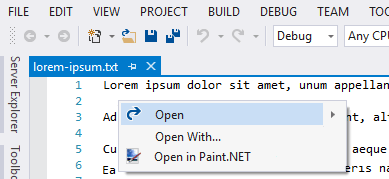
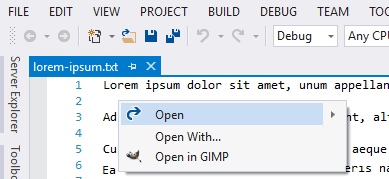
readmes

Changed region(s): [[0.3085, 0.8101, 0.6478, 0.9218]]

diff --git a/src/Gimp/OpenInApp/source.extension.cs b/src/Gimp/OpenInApp/source.extension.cs
@@ -11,7 +11,7 @@ namespace OpenInApp
         public const string Name = "Open in GIMP - GNU Image Manipulation Program";
         public const string Description = @"Open multiple files simultaneously in GIMP (GNU Image Manipulation Program) directly from Solution Explorer or Code Editor window.";
         public const string Language = "en-US";
-        public const string Version = "1.2.17";
+        public const string Version = "1.2.18";
         public const string Author = "GregTrevellick";
         public const string Tags = "open in, gimp, GNU Image Manipulation Program";
     }

diff --git a/src/AndroidStudio/OpenInApp/source.extension.cs b/src/AndroidStudio/OpenInApp/source.extension.cs
@@ -11,7 +11,7 @@ namespace OpenInApp
         public const string Name = "Open in Android Studio";
         public const string Description = @"Open multiple files simultaneously in Android Studio directly from Solution Explorer or Code Editor window.";
         public const string Language = "en-US";
-        public const string Version = "1.2.17";
+        public const string Version = "1.2.18";
         public const string Author = "GregTrevellick";
         public const string Tags = "open; open in; Android Studio; Android; Studio;";
     }

diff --git a/src/MarkdownMonster/OpenInApp/source.extension.cs b/src/MarkdownMonster/OpenInApp/source.extension.cs
@@ -11,7 +11,7 @@ namespace OpenInApp
         public const string Name = "Open in Markdown Monster";
         public const string Description = @"Open multiple files simultaneously in Markdown Monster directly from Solution Explorer or Code Editor window.";
         public const string Language = "en-US";
-        public const string Version = "1.2.17";
+        public const string Version = "1.2.18";
         public const string Author = "GregTrevellick";
         public const string Tags = "open, open in, MarkdownMonster";
     }

diff --git a/src/PaintDotNet/OpenInApp/source.extension.cs b/src/PaintDotNet/OpenInApp/source.extension.cs
@@ -11,7 +11,7 @@ namespace OpenInApp
         public const string Name = "Open in Paint.NET";
         public const string Description = @"Open multiple files simultaneously in Paint.NET directly from Solution Explorer or Code Editor window.";
         public const string Language = "en-US";
-        public const string Version = "1.2.17";
+        public const string Version = "1.2.18";
         public const string Author = "GregTrevellick";
         public const string Tags = "open, open in, Paint.NET, Paint, PaintDotNet";
     }

diff --git a/src/MarkdownMonster/OpenInApp/VisualStudioMarketPlaceAssets/README.md b/src/MarkdownMonster/OpenInApp/VisualStudioMarketPlaceAssets/README.md
@@ -2,8 +2,7 @@
 
 Open multiple files simultaneously in [MarkdownMonster][ThirdPartyAppHomePage] directly from [Visual Studio's][VisualStudioURL] Code Editor window and / or Solution Explorer.
 
-
- - *If you like this ***FREE*** tool please take a few seconds out to give a star rating below and/or [help others][CharityWareURL]*.
+ - *If you like this ***FREE*** tool please take a few seconds out to give a star rating below*.
 
 Similar "Open In" VS extensions can be found [here](https://marketplace.visualstudio.com/search?term=trevellick&target=VS&sortBy=Relevance).
 
@@ -23,29 +22,6 @@ Similar "Open In" VS extensions can be found [here](https://marketplace.visualst
  
   ![](ReadMeScreenShot_ItemNode.png)
 
-- From solution explorer at folder level
- 
-  ![](ReadMeScreenShot_FolderNode.png)
-
-- From solution explorer at project level
-
-  ![](ReadMeScreenShot_ProjNode.png)
-
-<!--
-- Warning if attempting to open one or more file types whose extension is not typically associated with [MarkdownMonster][ThirdPartyAppHomePage]. The list of typical file extensions is configurable in Tools > Options.
-
-  ![](../Generic_ReadMeScreenShot_WarningNonTypical.png)
-
-- Option to supress the warning message if attempting to open a file whose extension is not typically associated with [MarkdownMonster][ThirdPartyAppHomePage].
-
-  ![](../Generic_ReadMeScreenShot_OptionsGeneral.png)
-
-
-- Warning if attempting to open a large quantity of artefacts. The quantity is configurable in Tools > Options.
-
-  ![](../Generic_ReadMeScreenShot_WarningLargeQuantity.png)
--->
-
 ## Use Cases
 
 The [Visual Studio IDE][VisualStudioURL] has an outstanding and feature-rich editor for a wide range of file types, even in the free "Community" editions, which can be overridden to open a third-party application.
@@ -62,8 +38,5 @@ That said, there may be times when you wish to edit a file in an alternative edi
 
 - You are more familiar with a certain editor's features, or simply have a favourite editor.
 
-
-
 [ThirdPartyAppOfficialLogo]: ThirdPartyLogo.png
 [VisualStudioURL]: https://www.visualstudio.com/
-[CharityWareURL]: https://github.com/GregTrevellick/MiscellaneousArtefacts/wiki/Charity-Ware

diff --git a/src/AndroidStudio/OpenInApp/VisualStudioMarketPlaceAssets/README.md b/src/AndroidStudio/OpenInApp/VisualStudioMarketPlaceAssets/README.md
@@ -2,8 +2,7 @@
 
 Open multiple files simultaneously in [AndroidStudio][ThirdPartyAppHomePage] directly from [Visual Studio's][VisualStudioURL] Code Editor window and / or Solution Explorer.
 
-
- - *If you like this ***FREE*** tool please take a few seconds out to give a star rating below and/or [help others][CharityWareURL]*.
+ - *If you like this ***FREE*** tool please take a few seconds out to give a star rating below*.
 
 Similar "Open In" VS extensions can be found [here](https://marketplace.visualstudio.com/search?term=trevellick&target=VS&sortBy=Relevance).
 
@@ -23,29 +22,6 @@ Similar "Open In" VS extensions can be found [here](https://marketplace.visualst
  
   ![](ReadMeScreenShot_ItemNode.png)
 
-- From solution explorer at folder level
- 
-  ![](ReadMeScreenShot_FolderNode.png)
-
-- From solution explorer at project level
-
-  ![](ReadMeScreenShot_ProjNode.png)
-
-<!--
-- Warning if attempting to open one or more file types whose extension is not typically associated with [AndroidStudio][ThirdPartyAppHomePage]. The list of typical file extensions is configurable in Tools > Options.
-
-  ![](../Generic_ReadMeScreenShot_WarningNonTypical.png)
-
-- Option to supress the warning message if attempting to open a file whose extension is not typically associated with [AndroidStudio][ThirdPartyAppHomePage].
-
-  ![](../Generic_ReadMeScreenShot_OptionsGeneral.png)
-
-
-- Warning if attempting to open a large quantity of artefacts. The quantity is configurable in Tools > Options.
-
-  ![](../Generic_ReadMeScreenShot_WarningLargeQuantity.png)
--->
-
 ## Use Cases
 
 The [Visual Studio IDE][VisualStudioURL] has an outstanding and feature-rich editor for a wide range of file types, even in the free "Community" editions, which can be overridden to open a third-party application.
@@ -62,8 +38,5 @@ That said, there may be times when you wish to edit a file in an alternative edi
 
 - You are more familiar with a certain editor's features, or simply have a favourite editor.
 
-
-
 [ThirdPartyAppOfficialLogo]: ThirdPartyLogo.png
 [VisualStudioURL]: https://www.visualstudio.com/
-[CharityWareURL]: https://github.com/GregTrevellick/MiscellaneousArtefacts/wiki/Charity-Ware

diff --git a/src/PaintDotNet/OpenInApp/VisualStudioMarketPlaceAssets/README.md b/src/PaintDotNet/OpenInApp/VisualStudioMarketPlaceAssets/README.md
@@ -2,8 +2,7 @@
 
 Open multiple files simultaneously in [paint.net][ThirdPartyAppHomePage] directly from [Visual Studio's][VisualStudioURL] Code Editor window and / or Solution Explorer.
 
-
- - *If you like this ***FREE*** tool please take a few seconds out to give a star rating below and/or [help others][CharityWareURL]*.
+ - *If you like this ***FREE*** tool please take a few seconds out to give a star rating below*.
 
 Similar "Open In" VS extensions can be found [here](https://marketplace.visualstudio.com/search?term=trevellick&target=VS&sortBy=Relevance).
 
@@ -23,29 +22,6 @@ Similar "Open In" VS extensions can be found [here](https://marketplace.visualst
  
   ![](ReadMeScreenShot_ItemNode.png)
 
-- From solution explorer at folder level
- 
-  ![](ReadMeScreenShot_FolderNode.png)
-
-- From solution explorer at project level
-
-  ![](ReadMeScreenShot_ProjNode.png)
-
-<!--
-- Warning if attempting to open one or more file types whose extension is not typically associated with [paint.net][ThirdPartyAppHomePage]. The list of typical file extensions is configurable in Tools > Options.
-
-  ![](../Generic_ReadMeScreenShot_WarningNonTypical.png)
-
-- Option to supress the warning message if attempting to open a file whose extension is not typically associated with [paint.net][ThirdPartyAppHomePage].
-
-  ![](../Generic_ReadMeScreenShot_OptionsGeneral.png)
-
-
-- Warning if attempting to open a large quantity of artefacts. The quantity is configurable in Tools > Options.
-
-  ![](../Generic_ReadMeScreenShot_WarningLargeQuantity.png)
--->
-
 ## Use Cases
 
 The [Visual Studio IDE][VisualStudioURL] has an outstanding and feature-rich editor for a wide range of file types, even in the free "Community" editions, which can be overridden to open a third-party application.
@@ -62,8 +38,5 @@ That said, there may be times when you wish to edit a file in an alternative edi
 
 - You are more familiar with a certain editor's features, or simply have a favourite editor.
 
-
-
 [ThirdPartyAppOfficialLogo]: ThirdPartyLogo.png
 [VisualStudioURL]: https://www.visualstudio.com/
-[CharityWareURL]: https://github.com/GregTrevellick/MiscellaneousArtefacts/wiki/Charity-Ware

diff --git a/src/Gimp/OpenInApp/VisualStudioMarketPlaceAssets/README.md b/src/Gimp/OpenInApp/VisualStudioMarketPlaceAssets/README.md
@@ -2,8 +2,7 @@
 
 Open multiple files simultaneously in [GIMP][ThirdPartyAppHomePage] directly from [Visual Studio's][VisualStudioURL] Code Editor window and / or Solution Explorer.
 
-
- - *If you like this ***FREE*** tool please take a few seconds out to give a star rating below and/or [help others][CharityWareURL]*.
+ - *If you like this ***FREE*** tool please take a few seconds out to give a star rating below*.
 
 Similar "Open In" VS extensions can be found [here](https://marketplace.visualstudio.com/search?term=trevellick&target=VS&sortBy=Relevance).
 
@@ -23,14 +22,6 @@ Similar "Open In" VS extensions can be found [here](https://marketplace.visualst
  
   ![](ReadMeScreenShot_ItemNode.png)
 
-- From solution explorer at folder level
- 
-  ![](ReadMeScreenShot_FolderNode.png)
-
-- From solution explorer at project level
-
-  ![](ReadMeScreenShot_ProjNode.png)
-
 ## Use Cases
 
 The [Visual Studio IDE][VisualStudioURL] has an outstanding and feature-rich editor for a wide range of file types, even in the free "Community" editions, which can be overridden to open a third-party application.
@@ -47,8 +38,5 @@ That said, there may be times when you wish to edit a file in an alternative edi
 
 - You are more familiar with a certain editor's features, or simply have a favourite editor.
 
-
-
 [ThirdPartyAppOfficialLogo]: ThirdPartyLogo.png
 [VisualStudioURL]: https://www.visualstudio.com/
-[CharityWareURL]: https://github.com/GregTrevellick/MiscellaneousArtefacts/wiki/Charity-Ware
